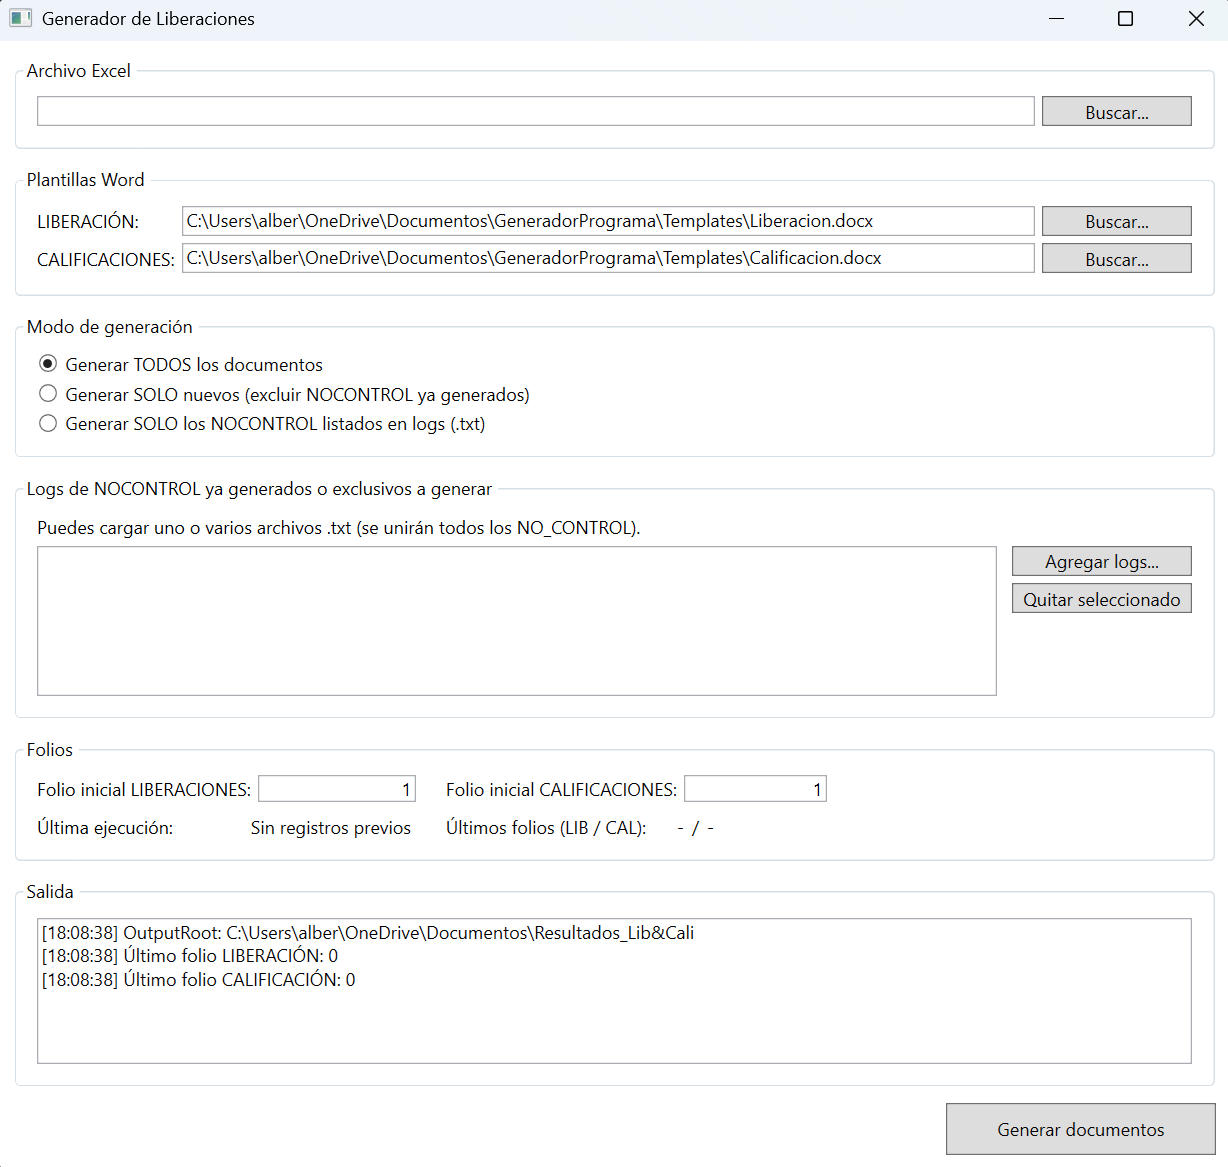
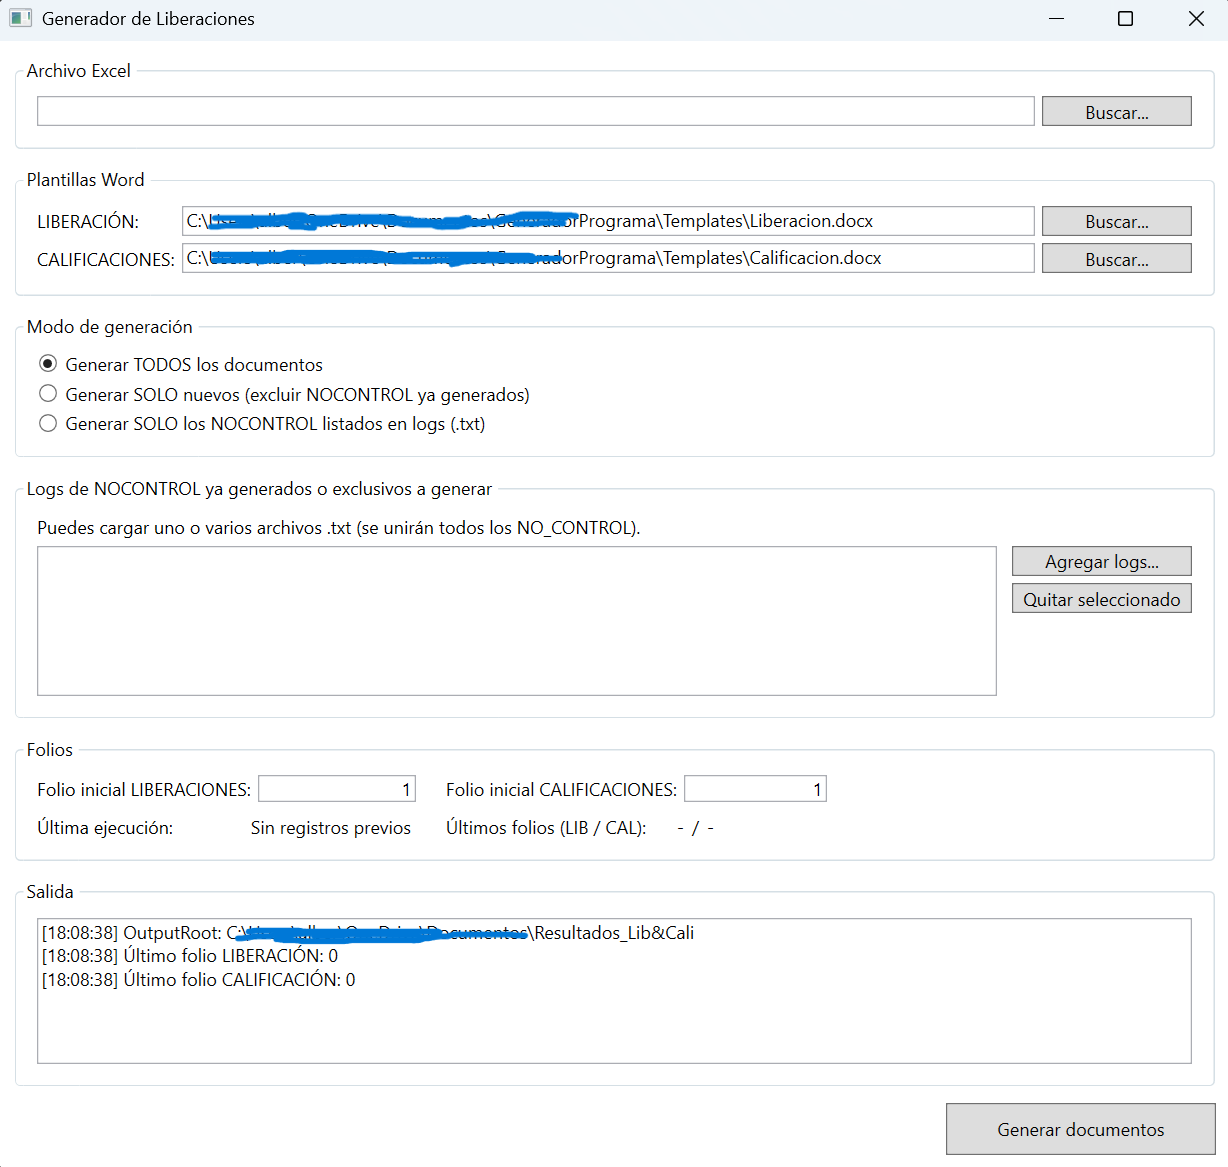
Fix

Changed region(s): [[0.1547, 0.1542, 0.4642, 0.2468], [0.1857, 0.7712, 0.4332, 0.8329]]

diff --git a/README.md b/README.md
@@ -59,10 +59,10 @@ Crea tus documentos en Word utilizando los siguientes "placeholders" donde desee
 | `{{CALIFICACION_LETRA}}` | Promedio convertido a texto (ej: "NOVENTA Y CINCO") |
 
 
-## Plantilla para documento de liberacion
+# Plantilla para documento de liberacion
 ![Plantilla para documento de liberacion](assets/libplantilla.png)
 
-## Plantilla para documento de calificacion
+# Plantilla para documento de calificacion
 ![Plantilla para documento de calificacion](assets/calplantilla.png)
 
 ### 2. Configuración en la App
